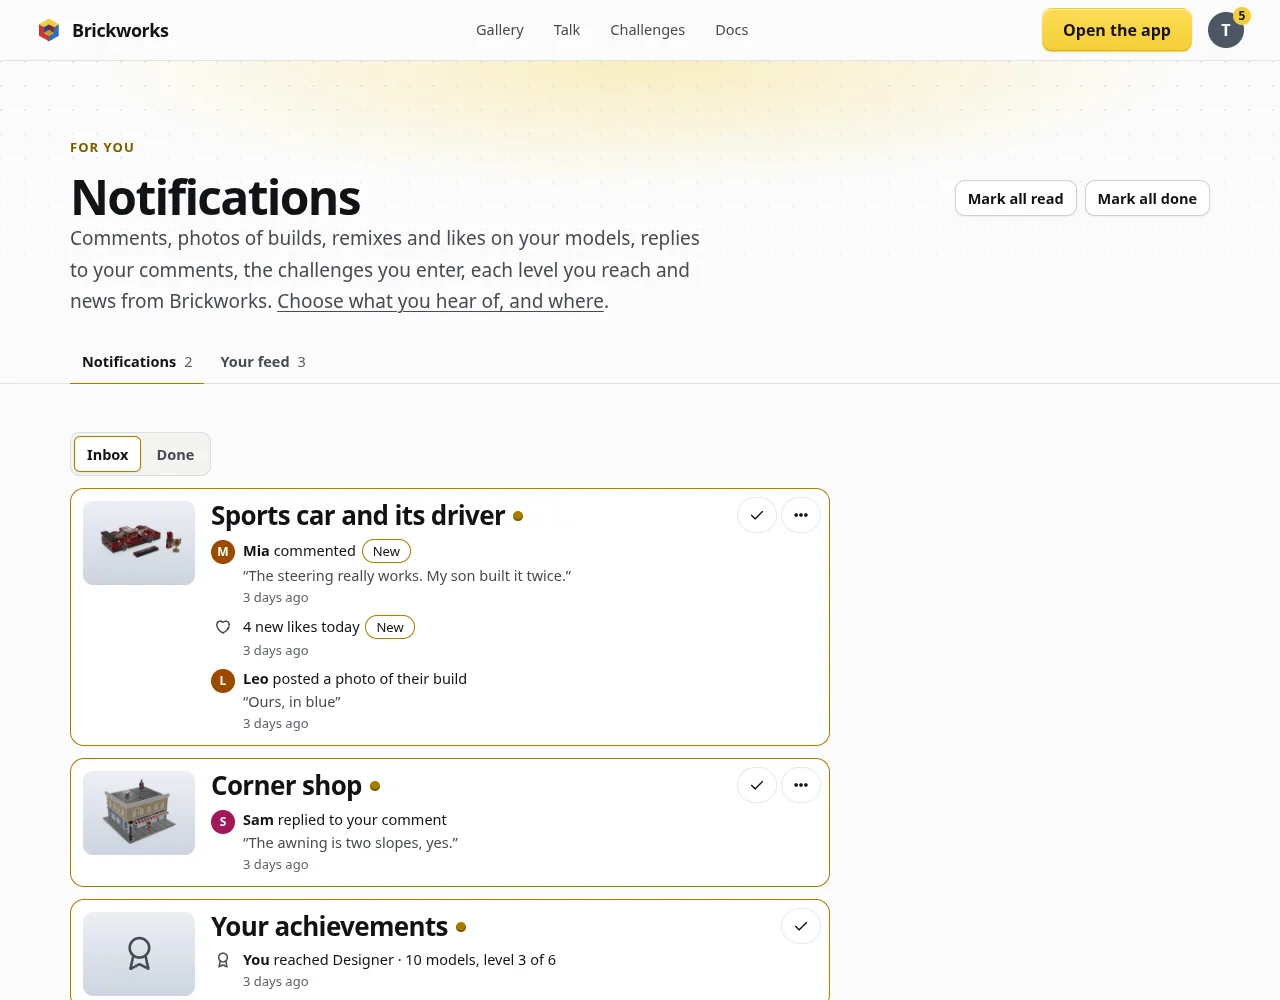
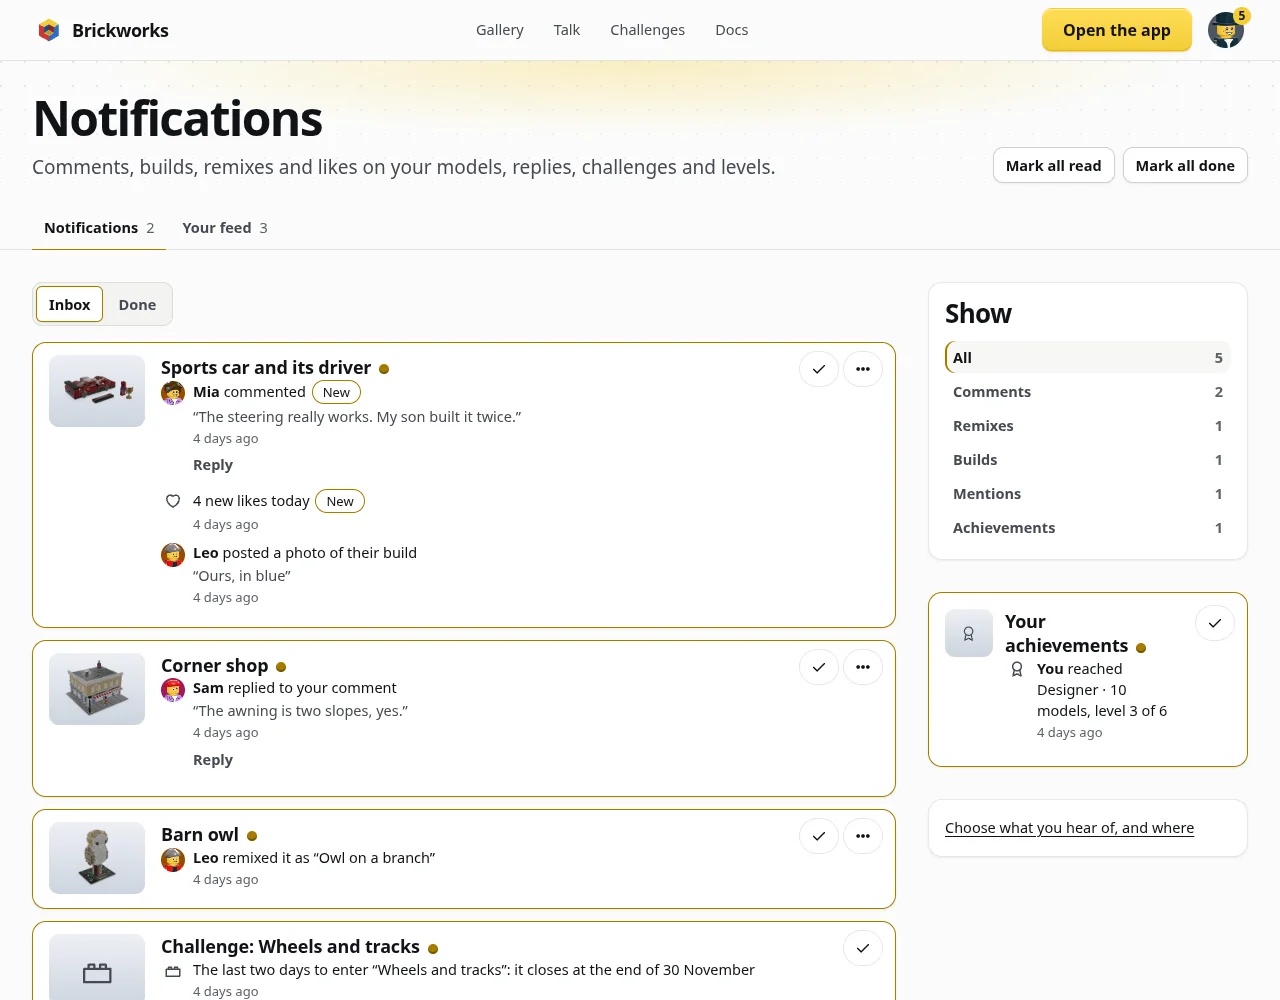
The docs show the name asked first and a reply from Notifications
Two new pictures, made by docs_shots from the manifest: Make your
profile over a typed comment at 390, and a notice answered in place at
1280. The Notifications pictures are made again, since every comment now
has Reply and the phone's lines and title changed.

diff --git a/docs-site/profiles.md b/docs-site/profiles.md
@@ -70,7 +70,7 @@ If you signed in to do something, such as liking a model or following a builder,
 
 ### A name before your first comment {#name-first}
 
-Your comments, replies, posts in Talk and shared models go out under your profile's name, so people know who said it and can follow you. If you have no profile yet, **Post** (or **Share it**) first asks for a name and a handle, in the same **Make your profile** step. What you wrote stays in its box while you answer. **Make my profile** posts it under your new name, and your earlier comments show that name too. **Skip** posts it as *A builder*; the next time you post, you are asked again. Accounts under 13 have no public profile, so they are never asked.
+Your comments, replies, posts in Talk, photos of your builds and shared models go out under your profile's name, so people know who said it and can follow you. If you have no profile yet, **Post** (or **Share it**, or sending a photo) first asks for a name and a handle, in the same **Make your profile** step. What you wrote stays in its box while you answer. **Make my profile** posts it under your new name, and your earlier comments show that name too. **Skip** posts it as *A builder*; the next time you post, you are asked again. Accounts under 13 have no public profile, so they are never asked.
 
 ![Make your profile over a model's comments, at 390 px: a name and a handle, Make my profile and Skip, and the comment still typed in the box behind it.](/docs/img/name-first-phone.webp "Asked once, before a first comment.")
 
@@ -129,7 +129,7 @@ Each group has **Done** (the tick) and **More**:
 
 Which kinds come here at all, and which by push or by email, is yours to choose in [Settings › Notifications](#settings).
 
-![Notifications: Inbox and Done, Mark all read and Mark all done, then a group a model with its picture, newest first: the sports car's comment, likes and a photo of a build, a reply on the corner shop, your achievements, a remix, a challenge's last days and a mention, each with Done and More.](/docs/img/notifications-page.webp "brickworks.diy/notifications.")
+![Notifications: Inbox and Done, Mark all read and Mark all done, then a group a model with its picture, newest first: the sports car's comment, likes and a photo of a build, a reply on the corner shop, your achievements, a remix, a challenge's last days and a mention, each with Done and More, and Reply under a comment.](/docs/img/notifications-page.webp "brickworks.diy/notifications.")
 
 ![Notifications on a phone: the same groups, each with its picture, its name, Done and More, and its rows under it.](/docs/img/notifications-phone.webp "On a phone, at 390 px.")
 
